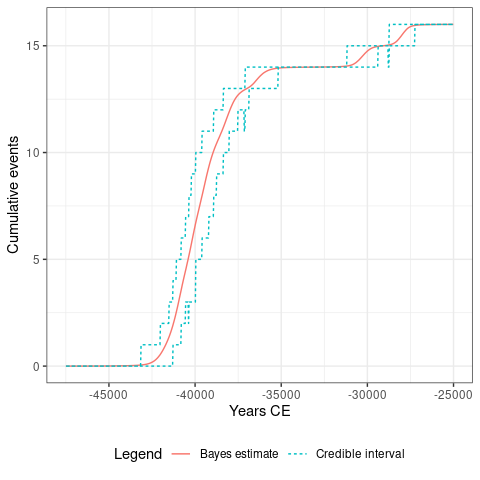
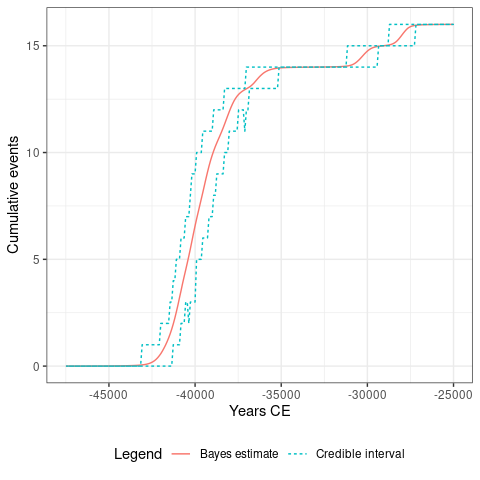
Clean README and vignette

diff --git a/README.md b/README.md
@@ -107,13 +107,10 @@ and scales).
 ### Analysis of a series of dates
 
 ``` r
-plot(chrono_events) +
-  ggplot2::theme_bw()
+plot(chrono_events)
 ```
 
 <img src="man/figures/README-events-plot-1.png" width="100%" />
-
-    #> NULL
 
 ``` r
 ## Tempo plot
